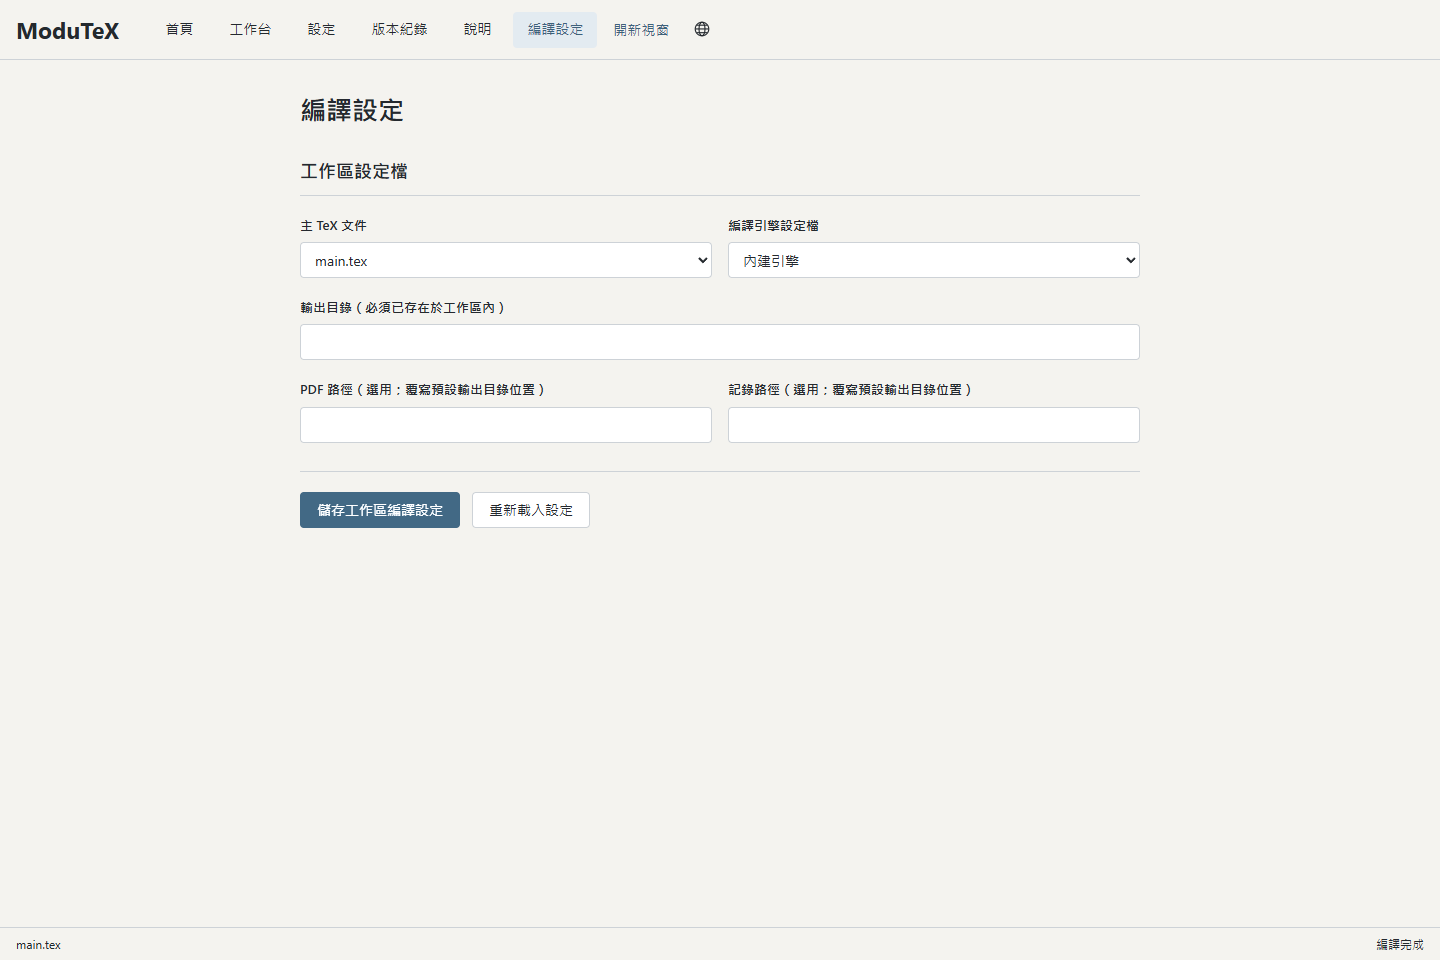
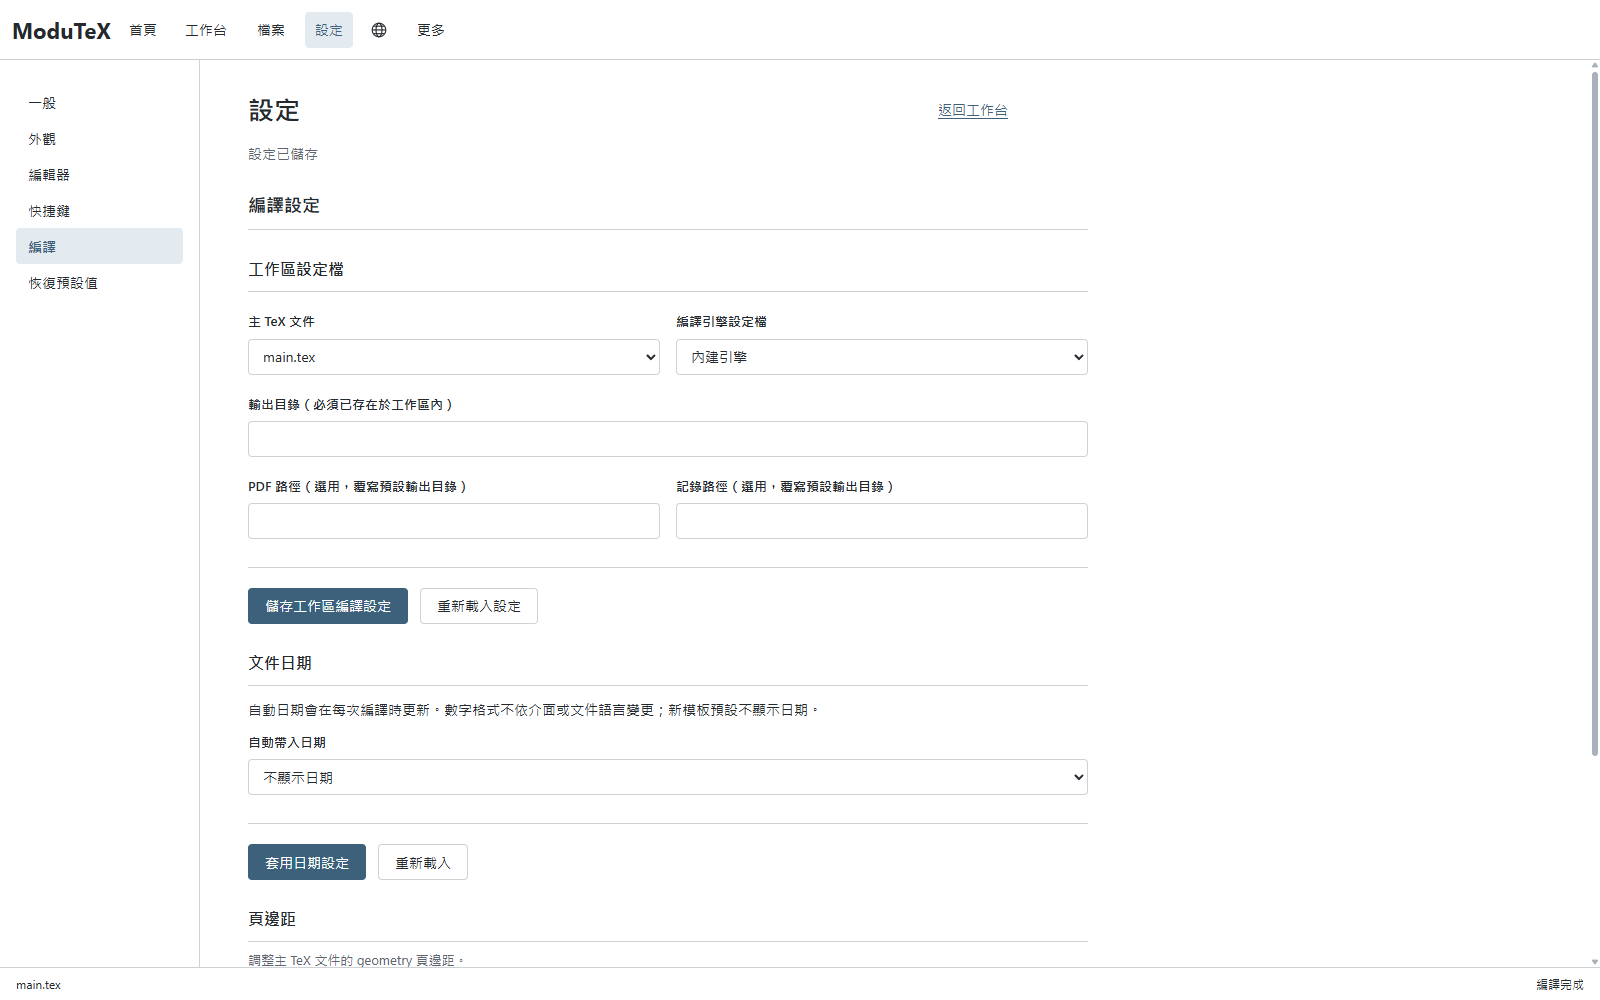
docs: document the verified frontend workflow
Refresh bilingual READMEs and add step-by-step editing, date, and compilation guides. Replace six screenshots with captures from the actual release WebView2 after a real desktop compile. Include the example TeX source, capture provenance, and a recording guide; the maintainer will record the video.

diff --git a/docs/examples/frontend-tour/main.tex b/docs/examples/frontend-tour/main.tex
@@ -1,0 +1,30 @@
+\documentclass{article}
+\usepackage[margin=2cm]{geometry}
+\usepackage{amsmath,amssymb,listings,xcolor}
+\title{From an idea to a PDF}
+\author{ModuTeX workspace tour}
+\date{}
+\begin{document}
+\maketitle
+\section{Keep the document in view}
+Write a short research note, then check the compiled PDF beside it.
+\par
+Visual editing and LaTeX source share the same document and undo history.
+\[\frac{\partial f}{\partial x}=2x+y\]
+\section{Compare results}
+\begin{center}
+\begin{tabular}{p{\dimexpr0.266667\linewidth-2\tabcolsep\relax}p{\dimexpr0.266667\linewidth-2\tabcolsep\relax}p{\dimexpr0.266667\linewidth-2\tabcolsep\relax}}
+\hline
+\textbf{Method} & \textbf{Samples} & \textbf{Score} \\
+\hline
+Baseline & 120 & 0.82 \\
+Refined & 80 & 0.91 \\
+\hline
+\end{tabular}
+\end{center}
+\section{Show the calculation}
+\begin{lstlisting}[language=Python,name=python,xleftmargin=\parindent]
+def mean(values):
+    return sum(values) / len(values)
+\end{lstlisting}
+\end{document}

diff --git a/docs/user/FRONTEND_TOUR.md b/docs/user/FRONTEND_TOUR.md
@@ -1,0 +1,53 @@
+# Frontend walkthrough
+
+[繁體中文](FRONTEND_TOUR.zh-TW.md) · [README](../../README.md)
+
+This walkthrough follows a short research note through the ModuTeX 0.3.0 workspace. Use the [example document](../examples/frontend-tour/main.tex) to try the same content. Copy it into its own folder before compiling so generated files stay outside the repository.
+
+![Visual draft and PDF preview](../images/workbench-en.png)
+
+## 1. Create and save a document
+
+Start with a blank document or an included template, or open the example `.tex` file. Choose **Save** to give a new draft a local `.tex` path. Editing in either mode changes the same document; it does not create a separate visual-format file.
+
+## 2. Write and undo
+
+In **Visual** mode, click a text cell and write directly. Press Enter to continue on the next line. Use the cell's **Above** or **Below** control when you want a separate cell; adding a cell does not duplicate the current text or its blank lines.
+
+Use Ctrl+Z to undo and Ctrl+Shift+Z to redo with the default shortcuts. Visual and source modes share this history. You can change shortcuts in Settings.
+
+## 3. Add structured content
+
+The toolbar opens equation, table, code, and image tools. Use the math templates to build a formula or matrix, then finish the equation to apply it. Table controls let you edit rows, columns, and widths; code blocks keep their text and selected language.
+
+Visual mode is an editable draft. It helps you work with content and structure; final typography, spacing, and page breaks come from the PDF.
+
+## 4. Check the source
+
+Switch the editor to **Source** to inspect packages, change the preamble, or work with custom LaTeX macros. The PDF remains on the right. Switch back to **Visual** to continue with content that the editor recognizes; unsupported syntax can still be edited in source mode.
+
+![Source mode with the PDF still visible](../images/source-editor-en.png)
+
+## 5. Choose the title date
+
+Open **Settings → Compilation** and find **Document date**. Pick a preset, then choose **Apply date settings** to update the main TeX document. Applying a date is a document edit; save it before compiling.
+
+| Choice                     | Result                                                                        |
+| -------------------------- | ----------------------------------------------------------------------------- |
+| Hide date                  | Keeps an explicit empty date so TeX does not add today's date.                |
+| Automatic: YYYY-MM-DD      | Numeric year, month, day, separated by hyphens.                               |
+| Automatic: YYYY/MM/DD      | Numeric year, month, day, separated by slashes.                               |
+| Automatic: DD/MM/YYYY      | Numeric day, month, year, separated by slashes.                               |
+| Automatic: document format | Uses TeX's date format; the document and its packages determine the language. |
+
+An existing custom date appears as **Keep existing custom date**. It is preserved rather than rewritten through that disabled choice; edit custom date syntax in Source mode. The three numeric presets do not add language-specific month names.
+
+![Workspace compilation settings](../images/compile-settings-en.png)
+
+## 6. Compile and review
+
+Click **Compile PDF** to run the local compiler. The bundled Tectonic engine may download missing TeX resources, so the first compilation or a newly used package may need an internet connection.
+
+Review the PDF on the right after a successful build. If a build fails, inspect the diagnostics; the previous successful PDF remains visible. After further edits, compile again to check the latest document.
+
+See [compilation](COMPILATION.md) for diagnostics and [known limitations](KNOWN_LIMITATIONS.md) for supported editing boundaries. The [recording guide](../media/RECORDING.md) follows this same sequence.

diff --git a/docs/user/FRONTEND_TOUR.zh-TW.md b/docs/user/FRONTEND_TOUR.zh-TW.md
@@ -1,0 +1,53 @@
+# 新版前端操作導覽
+
+[English](FRONTEND_TOUR.md) · [README](../../README.zh-TW.md)
+
+本導覽以一份短篇研究筆記，介紹 ModuTeX 0.3.0 的編輯與編譯流程。可將[示範文件](../examples/frontend-tour/main.tex)複製到獨立資料夾練習，讓編譯產物留在儲存庫之外。
+
+![視覺草稿與 PDF 預覽](../images/workbench.png)
+
+## 1. 建立並儲存文件
+
+從空白文件或範本開始，也可以直接開啟示範 `.tex`。新草稿按「儲存」後，選擇本機位置並以 `.tex` 副檔名保存。視覺與原始碼模式修改的是同一份文件，不會另外建立視覺格式檔案。
+
+## 2. 輸入文字與復原
+
+在「視覺化」模式點選文字儲存格，直接輸入內容。Enter 在格內換行；需要獨立區塊時，再用儲存格的「上方」或「下方」插入控制。新增儲存格不會複製目前文字或既有空白行。
+
+預設以 Ctrl+Z 復原、Ctrl+Shift+Z 重做。切換到原始碼模式後仍共用這份編輯歷史；快捷鍵可在設定中調整。
+
+## 3. 插入公式、表格與程式碼
+
+工具列可開啟公式、表格、程式碼與圖片工具。建立公式或矩陣後，完成編輯才會套用到文件。表格可調整行列及欄寬，程式碼區塊則保留輸入內容與所選語言。
+
+視覺模式提供可編輯的草稿，方便整理內容與結構。最終字型、間距及分頁仍以編譯後的 PDF 為準。
+
+## 4. 切換原始碼
+
+需要載入套件、調整導言區或修改自訂巨集時，將同一編輯區切換成「原始碼」。右側 PDF 會保留，可繼續對照。切回視覺模式後，可編輯已辨識的內容；不支援的語法仍可在原始碼處理。
+
+![原始碼模式與右側 PDF](../images/source-editor.png)
+
+## 5. 設定標題日期
+
+進入「設定 → 編譯」，在「文件日期」選擇格式，再按「套用日期設定」更新主 TeX 文件。套用屬於文件編輯，儲存後再編譯。
+
+| 選項                 | 結果                                        |
+| -------------------- | ------------------------------------------- |
+| 不顯示日期           | 保留空日期指令，避免 TeX 自動加入當天日期。 |
+| 自動日期：YYYY-MM-DD | 以連字號分隔數字年、月、日。                |
+| 自動日期：YYYY/MM/DD | 以斜線分隔數字年、月、日。                  |
+| 自動日期：DD/MM/YYYY | 以斜線分隔數字日、月、年。                  |
+| 自動日期：依文件設定 | 使用 TeX 的日期格式，語言由文件與套件決定。 |
+
+文件原本有自訂日期時，選單會顯示停用的「保留現有自訂日期」，避免直接改寫。自訂語法請到原始碼修改；三種數字預設格式不會加入特定語言的月份名稱。
+
+![工作區編譯設定](../images/compile-settings.png)
+
+## 6. 編譯並檢查 PDF
+
+按「編譯 PDF」執行本機編譯。內建 Tectonic 可能下載尚未快取的 TeX 資源，首次編譯或新增套件時請保持連線。
+
+成功後在右側檢查排版；失敗時查看診斷訊息，預覽區會保留前一次成功的 PDF。之後若再修改文件，請重新編譯，確認 PDF 對應最新內容。
+
+詳細處理方式見[編譯說明](COMPILATION.md)，支援範圍見[已知限制](KNOWN_LIMITATIONS.md)。[影片錄製流程](../media/RECORDING.md)使用同一份示範文件。

diff --git a/README.md b/README.md
@@ -3,10 +3,19 @@
 <p align="center">Visual LaTeX editing with a built-in compiler.</p>
 <p align="center"><a href="README.md">English</a> · <a href="README.zh-TW.md">繁體中文</a></p>
 
-ModuTeX combines visual editing, LaTeX source editing, and PDF preview in a unified desktop workspace powered by Tauri 2 and Svelte.
-Write text, build equations and tables, and compile documents locally with the bundled Tectonic engine.
+ModuTeX 0.3.0 is an open-source LaTeX editor for Windows x64, built with Tauri 2 and Svelte.
+Switch the editor between visual drafting and LaTeX source while keeping the compiled PDF in view on the right.
+
+Your document stays in a plain-text `.tex` file. Use visual mode to write text, equations, and tables, then click **Compile PDF** to build with the bundled Tectonic engine.
+Visual mode is a working draft; check the PDF for final fonts, spacing, and page breaks. The first compilation may need to download TeX resources.
 
 ![Visual editing and compiled PDF side by side](docs/images/workbench-en.png)
+
+## See it in use
+
+[Step-by-step guide](docs/user/FRONTEND_TOUR.md) · [Example document](docs/examples/frontend-tour/main.tex) · [Video recording guide](docs/media/RECORDING.md)
+
+Follow the same document through editing, switching to source, setting the title date, and compiling to PDF.
 
 ## Screenshots
 
@@ -14,18 +23,18 @@ Switch to LaTeX source while keeping the PDF in view.
 
 ![LaTeX source editor and PDF preview](docs/images/source-editor-en.png)
 
-Choose the main document, compiler profile, and output paths for each workspace.
+Choose the main document and compiler profile, and set whether the document title includes a date.
 
 ![Workspace compile settings](docs/images/compile-settings-en.png)
 
 ## Features
 
-- **Visual and source editing:** Edit rich content directly with synchronized undo/redo, or switch to LaTeX source for custom macros and packages.
-- **Notebook cells:** Organize text, headings, and sections into draggable notebook-style cells.
-- **Equations and matrices:** Visual template palettes for fractions, limits, calculus, and matrix structures.
-- **Tables, code and images:** Manage table geometries, code blocks with syntax highlighting, and embedded images.
-- **Integrated PDF preview:** Live side-by-side compilation with error diagnostics and fallback to the last successful render.
-- **Dual language support:** English and Traditional Chinese interface.
+- **Two editing modes:** Switch between visual drafting and LaTeX source, with a shared undo/redo history.
+- **Notebook cells:** Organize text and headings into cells that you can insert, move, and edit.
+- **Equations, tables, and code:** Build formulas and matrices from templates, edit table rows and columns, and insert code blocks or images.
+- **Local compilation:** Click **Compile PDF** to run the bundled Tectonic engine. Missing TeX resources may require an internet connection.
+- **PDF preview and diagnostics:** Review the compiled output beside the editor. Failed builds show diagnostics and retain the last successful PDF.
+- **Templates, dates, and language:** Save a template as `.tex`, choose a title-date format, and use the interface in English or Traditional Chinese.
 
 ## Usage
 

diff --git a/docs/media/SCREENSHOTS.md b/docs/media/SCREENSHOTS.md
@@ -1,0 +1,25 @@
+# Screenshot provenance
+
+The six README screenshots were captured from the actual Windows release application after `dev` passed CI. They use the [example document](../examples/frontend-tour/main.tex); the table values are illustrative, not benchmark results.
+
+| Item               | Evidence                                                                                                   |
+| ------------------ | ---------------------------------------------------------------------------------------------------------- |
+| Source baseline    | `074c5da6d107afd85ee9ca180dd6ea0bd5dc9f97`                                                                 |
+| Successful dev CI  | [Run 40440515573](https://github.com/leo2783/ModuTeX/actions/runs/40440515573)                             |
+| Build              | `npm run build` on Windows; Tauri release executable                                                       |
[1 lines of base64/hex data omitted]
+| Capture time       | 2026-10-27 13:12 Asia/Taipei                                                                               |
+| Capture method     | Playwright connected to the release application's WebView2 over an isolated loopback CDP endpoint          |
+| Viewport           | 1600 × 1000, light theme; English and Traditional Chinese                                                  |
+| PDF                | Generated through the desktop application's Compile PDF action; status: Compilation completed, PDF updated |
+| Renderer           | Actual PDF.js canvas, 628 × 813 pixels; no uncaught frontend errors                                        |
+
+The captures use the real desktop host and compiler. They do not use a browser preview, a mocked desktop adapter, or edited UI content. Native window borders are outside the captured WebView content. Compiler diagnostics remain visible as reported by the application; success does not imply an empty diagnostic list.
+
+| Files                                             | View                                                                             |
+| ------------------------------------------------- | -------------------------------------------------------------------------------- |
+| `workbench.png`, `workbench-en.png`               | Visual draft beside the compiled PDF                                             |
+| `source-editor.png`, `source-editor-en.png`       | LaTeX source mode beside the same PDF                                            |
+| `compile-settings.png`, `compile-settings-en.png` | Main file, compiler profile, date controls, and the beginning of margin settings |
+
+The [video recording guide](RECORDING.md) is separate: the maintainer will record the video, and this change does not include one.

diff --git a/docs/media/RECORDING.md b/docs/media/RECORDING.md
@@ -1,0 +1,25 @@
+# 新版前端影片錄製流程
+
+影片由維護者錄製。本次文件變更不包含影片，也不在 README 放置尚未上傳的影片連結。
+
+## 準備
+
+從 `dev` 的已驗證版本執行 `npm run build`，再以 `npm run tauri` 啟動。將[示範文件](../examples/frontend-tour/main.tex)複製到獨立資料夾，用 ModuTeX 開啟。先成功編譯一次，確定所需 TeX 資源已下載，並關閉含私人路徑或訊息的面板。
+
+## 建議鏡頭
+
+| 順序 | 操作                                                    | 確認畫面                         |
+| ---- | ------------------------------------------------------- | -------------------------------- |
+| 1    | 開啟示範文件並顯示 PDF。                                | 左側視覺草稿、右側編譯結果。     |
+| 2    | 在文字格輸入一句話，以 Enter 接續下一行，再復原與重做。 | 換行可接續輸入，內容可連續復原。 |
+| 3    | 開啟偏導數公式，修改後完成編輯。                        | 公式在文件中更新。               |
+| 4    | 檢視表格與 Python 程式碼。                              | 表格行列與語法標亮。             |
+| 5    | 切到「原始碼」，再切回「視覺化」。                      | 同一文件與右側 PDF 保持可見。    |
+| 6    | 在編譯設定選擇數字日期、套用，然後儲存。                | 所選日期規則寫入主文件。         |
+| 7    | 按「編譯 PDF」並檢查結果。                              | 標題日期與最新修改出現在 PDF。   |
+
+完成後可回到「不顯示日期」並復原示範文字，讓文件恢復原始狀態。影片建議使用 MP4/H.264，保留足夠解析度讀取工具列與公式；上傳確認可播放後，再將影片連結加到雙語 README 的「操作示範／See it in use」。
+
+## 文稿來源
+
+README 與操作導覽由 Gemini 潤飾後，依實際介面與原始碼核對。寫作參考 Clark、Martin 與 Mahowald 的 [Why is AI-generated language so hard to understand?](https://arxiv.org/abs/2610.29162)，將名詞堆疊、長距離句法依存等現象作為編輯檢查項目，避免為了縮短篇幅而省掉操作關係。這是文稿編輯原則，不代表本專案做過中文閱讀成效實驗，也不構成 ModuTeX 功能的研究證據。
